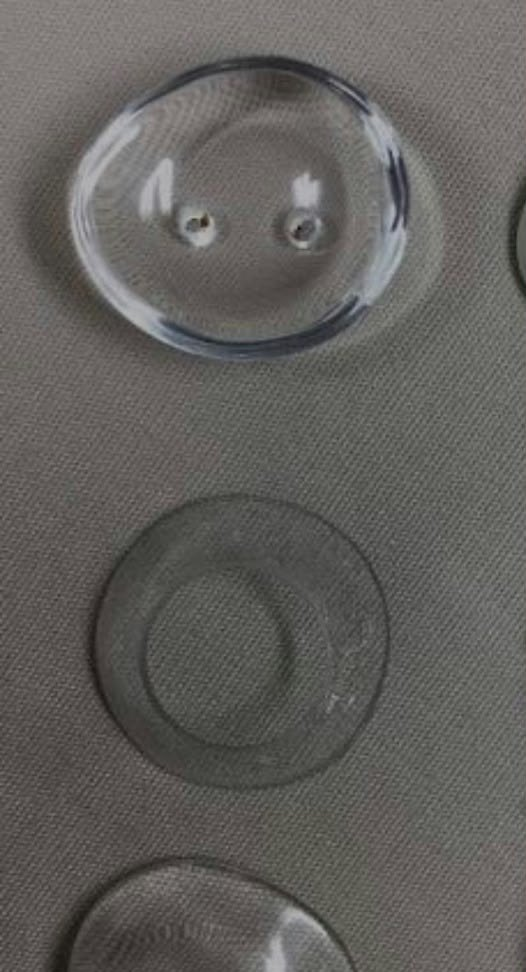
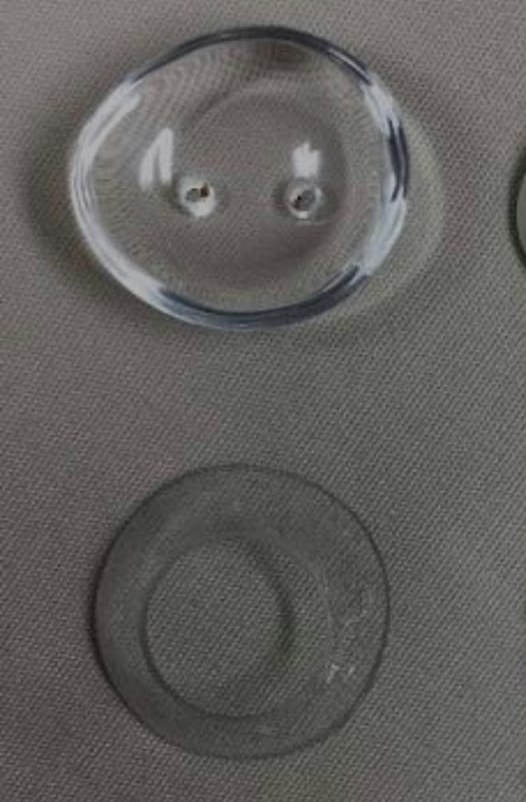
push

diff --git a/src/components/sections/areas.tsx b/src/components/sections/areas.tsx
@@ -46,22 +46,6 @@ export function Areas() {
                 <p className="mt-1 text-sm text-muted">{sede.nota}</p>
               ) : null}
 
-              {/* Abre en pestaña nueva porque saca al visitante a Maps, y a
-                  menudo a la app del teléfono: si sustituyera la página, al
-                  volver perdería dónde estaba leyendo. */}
-              <a
-                href={mapsUrl(sede)}
-                target="_blank"
-                rel="noopener noreferrer"
-                className="mt-4 inline-flex min-h-[44px] cursor-pointer items-center gap-2 rounded-base border border-line bg-white px-4 py-2 font-heading text-sm font-semibold text-primary transition-colors duration-200 hover:border-primary hover:text-primary-dark"
-              >
-                <Icon name="mapPin" className="h-4 w-4 shrink-0" />
-                Cómo llegar
-                <span className="sr-only">
-                  a {sede.lugar}, {sede.ciudad}. Google Maps, se abre en una
-                  pestaña nueva
-                </span>
-              </a>
             </div>
 
             <p className="flex items-start gap-2 text-sm font-medium text-ink md:col-span-3 md:justify-end md:text-right">
@@ -71,6 +55,30 @@ export function Areas() {
               />
               {sede.horario}
             </p>
+
+            {/* Último en el DOM a propósito. En móvil, el horario es el dato
+                que decide el viaje y tiene que leerse antes que el botón; en
+                escritorio el botón se coloca bajo la dirección, en la
+                segunda fila de la rejilla, que es donde ya estaba.
+
+                Abre en pestaña nueva porque saca al visitante a Maps, y a
+                menudo a la app del teléfono: si sustituyera la página, al
+                volver perdería dónde estaba leyendo. */}
+            <div className="md:col-span-5 md:col-start-5 md:-mt-1">
+              <a
+                href={mapsUrl(sede)}
+                target="_blank"
+                rel="noopener noreferrer"
+                className="inline-flex min-h-[44px] cursor-pointer items-center gap-2 rounded-base border border-line bg-white px-4 py-2 font-heading text-sm font-semibold text-primary transition-colors duration-200 hover:border-primary hover:text-primary-dark"
+              >
+                <Icon name="mapPin" className="h-4 w-4 shrink-0" />
+                Cómo llegar
+                <span className="sr-only">
+                  a {sede.lugar}, {sede.ciudad}. Google Maps, se abre en una
+                  pestaña nueva
+                </span>
+              </a>
+            </div>
           </li>
         ))}
       </ul>

diff --git a/src/components/ui/carrusel.tsx b/src/components/ui/carrusel.tsx
@@ -24,11 +24,15 @@ import { Icon } from "@/components/ui/icon";
 export function Carrusel({
   label,
   listaClassName,
+  cabecera,
   children,
 }: {
   label: string;
   /** Clases de la `<ul>`: define el ancho de cada ítem y la rejilla final. */
   listaClassName: string;
+  /** Lo que va a la izquierda de los botones, en su misma fila: un recuento,
+   *  una nota. Así no quedan dos filas sueltas una encima de otra. */
+  cabecera?: React.ReactNode;
   children: React.ReactNode;
 }) {
   const pista = useRef<HTMLDivElement>(null);
@@ -88,18 +92,23 @@ export function Carrusel({
     <div>
       {/* Los botones se reservan su fila sólo cuando hacen falta: si el
           contenido cabe entero, no hay nada que desplazar. */}
-      {desbordado ? (
-        <div className="mb-4 flex justify-center gap-2 lg:justify-end">
-          <BotonPista
-            sentido="anterior"
-            onClick={() => mover(-1)}
-            disabled={enInicio}
-          />
-          <BotonPista
-            sentido="siguiente"
-            onClick={() => mover(1)}
-            disabled={enFin}
-          />
+      {desbordado || cabecera ? (
+        <div className="mb-4 flex flex-col items-center gap-3 lg:flex-row lg:items-center lg:justify-between">
+          <div className="min-w-0 text-center lg:text-left">{cabecera}</div>
+          {desbordado ? (
+            <div className="flex shrink-0 gap-2">
+              <BotonPista
+                sentido="anterior"
+                onClick={() => mover(-1)}
+                disabled={enInicio}
+              />
+              <BotonPista
+                sentido="siguiente"
+                onClick={() => mover(1)}
+                disabled={enFin}
+              />
+            </div>
+          ) : null}
         </div>
       ) : null}
 

diff --git a/src/components/ui/explorador-servicios.tsx b/src/components/ui/explorador-servicios.tsx
@@ -146,19 +146,24 @@ export function ExploradorServicios({
 
       {/* Región viva: quien usa lector de pantalla necesita enterarse de que
           la lista cambió al escribir, porque el cambio ocurre lejos del foco. */}
-      <p
-        aria-live="polite"
-        className="mt-5 text-center text-sm text-muted lg:text-left"
-      >
-        {visibles.length === 0
-          ? "Ningún servicio coincide con esa búsqueda."
-          : `${visibles.length} ${visibles.length === 1 ? "servicio" : "servicios"}`}
-        {hayFiltro && visibles.length > 0 ? ` de ${servicios.length}` : ""}
-      </p>
+      {/* El recuento va en la misma fila que los botones del carrusel, no en
+          una línea propia: eran dos filas sueltas con 50 px de aire entre
+          medias. Sigue siendo región viva, se renderice donde se renderice. */}
+      {visibles.length === 0 ? (
+        <p aria-live="polite" className="mt-5 text-center text-sm text-muted lg:text-left">
+          Ningún servicio coincide con esa búsqueda.
+        </p>
+      ) : null}
 
       {visibles.length > 0 ? (
         <div className="mt-6">
           <Carrusel
+            cabecera={
+              <p aria-live="polite" className="text-sm text-muted">
+                {visibles.length} {visibles.length === 1 ? "servicio" : "servicios"}
+                {hayFiltro ? ` de ${servicios.length}` : ""}
+              </p>
+            }
             // Al cambiar el conjunto se vuelve a montar: así el carrusel
             // recalcula si desborda —los ítems cambian de número sin que
             // cambie el tamaño de la pista, que es lo único que observa— y

diff --git a/src/components/sections/productos.tsx b/src/components/sections/productos.tsx
@@ -20,6 +20,9 @@ import { productos } from "@/lib/productos";
  * Las imágenes van en `object-contain` sobre fondo claro: son fotos de objeto
  * con proporciones dispares — una apaisada, dos verticales — y recortarlas a
  * un marco común les cortaría la pieza, que es lo único que importa aquí.
+ * El marco es cuadrado y no 4:3 por eso mismo: con dos verticales, en 4:3
+ * la pieza ocupaba el 40% del ancho entre dos bandas grises; en 1:1 llena
+ * más de la mitad, y la apaisada apenas pierde alto.
  */
 export function Productos() {
   return (
@@ -28,7 +31,6 @@ export function Productos() {
       label="Para colegas"
       title="Insumos que se elaboran por encargo"
       intro="Esta parte es para cirujanos oftalmólogos. Las piezas se fabrican en el taller del consultorio, a la medida que indique quien las encarga."
-      tone="paper"
     >
       {/* Foto de apertura: enseña de un vistazo el conjunto, que es lo que un
           colega quiere ver antes de leer ficha por ficha. */}
@@ -70,7 +72,7 @@ export function ListaProductos() {
           className="flex w-[82%] shrink-0 snap-start sm:w-[58%] md:w-[calc((100%-2.5rem)/3)]"
         >
           <article className="flex h-full flex-col overflow-hidden rounded-base border border-line bg-white">
-            <div className="relative aspect-[4/3] w-full bg-surface">
+            <div className="relative aspect-square w-full bg-surface">
               <Image
                 src={p.image}
                 alt={p.imageAlt}

diff --git a/src/components/ui/service-card.tsx b/src/components/ui/service-card.tsx
@@ -10,6 +10,11 @@ import type { DatosTarjeta } from "@/lib/services";
  *
  * `sizes` refleja el ancho real que ocupa la tarjeta en cada punto de corte:
  * sin eso, Next serviría a un teléfono la misma imagen que a un escritorio.
+ *
+ * El «Ver detalle» va con `mt-auto`: las tarjetas de una misma fila se
+ * estiran a la misma altura, pero el texto de cada una mide distinto, y sin
+ * esto el enlace quedaba a alturas diferentes y las cortas dejaban un hueco
+ * muerto debajo. Anclado al pie, los tres enlaces forman una línea.
  */
 export function ServiceCard({
   service,
@@ -50,7 +55,7 @@ export function ServiceCard({
           {service.forWhom}
         </p>
 
-        <span className="mt-4 inline-flex items-center gap-1.5 self-start pt-1 font-heading text-sm font-semibold text-primary transition-colors duration-200 group-hover:text-primary-dark">
+        <span className="mt-auto inline-flex items-center gap-1.5 self-start pt-5 font-heading text-sm font-semibold text-primary transition-colors duration-200 group-hover:text-primary-dark">
           Ver detalle
           <Icon name="arrowRight" className="h-4 w-4" />
         </span>

diff --git a/src/components/ui/before-after.tsx b/src/components/ui/before-after.tsx
@@ -53,10 +53,14 @@ export function BeforeAfter({ caso }: { caso: Caso }) {
 }
 
 export function CasosGrid({ casos, label }: { casos: Caso[]; label: string }) {
+  // Con tres pares, tres columnas: en dos, el tercero quedaba solo junto a
+  // una celda vacía y la sección parecía sin terminar. Tres columnas casan
+  // además con la fila de «otros resultados» que va justo debajo.
+  const columnas = casos.length === 3 ? "lg:grid-cols-3" : "lg:grid-cols-2";
   return (
     <Carrusel
       label={label}
-      listaClassName="flex snap-x snap-mandatory gap-4 lg:grid lg:snap-none lg:grid-cols-2 lg:gap-6"
+      listaClassName={`flex snap-x snap-mandatory gap-4 lg:grid lg:snap-none ${columnas} lg:gap-6`}
     >
       {casos.map((caso) => (
         <li key={caso.id} className="w-[88%] shrink-0 snap-start lg:w-auto">

diff --git a/src/components/sections/doctor-preview.tsx b/src/components/sections/doctor-preview.tsx
@@ -25,7 +25,6 @@ export function DoctorPreview() {
       label="El especialista"
       title="Quién te atiende"
       intro="Médico Cirujano y Oftalmólogo egresado de la UCLA, profesor universitario y ex director del Hospital de Sarare. Su trabajo une dos oficios que rara vez van juntos: la cirugía ocular y la elaboración artesanal de prótesis."
-      tone="paper"
     >
       <div className="grid gap-12 lg:grid-cols-2 lg:gap-10">
         <div>

diff --git a/src/components/sections/process.tsx b/src/components/sections/process.tsx
@@ -35,7 +35,11 @@ const steps = [
  */
 export function Process() {
   return (
-    <Section label="Proceso" title="Cómo es el proceso desde que escribes">
+    <Section
+      label="Proceso"
+      title="Cómo es el proceso desde que escribes"
+      tone="paper"
+    >
       <ol className="md:flex md:gap-8">
         {steps.map((step, i) => {
           const ultimo = i === steps.length - 1;
